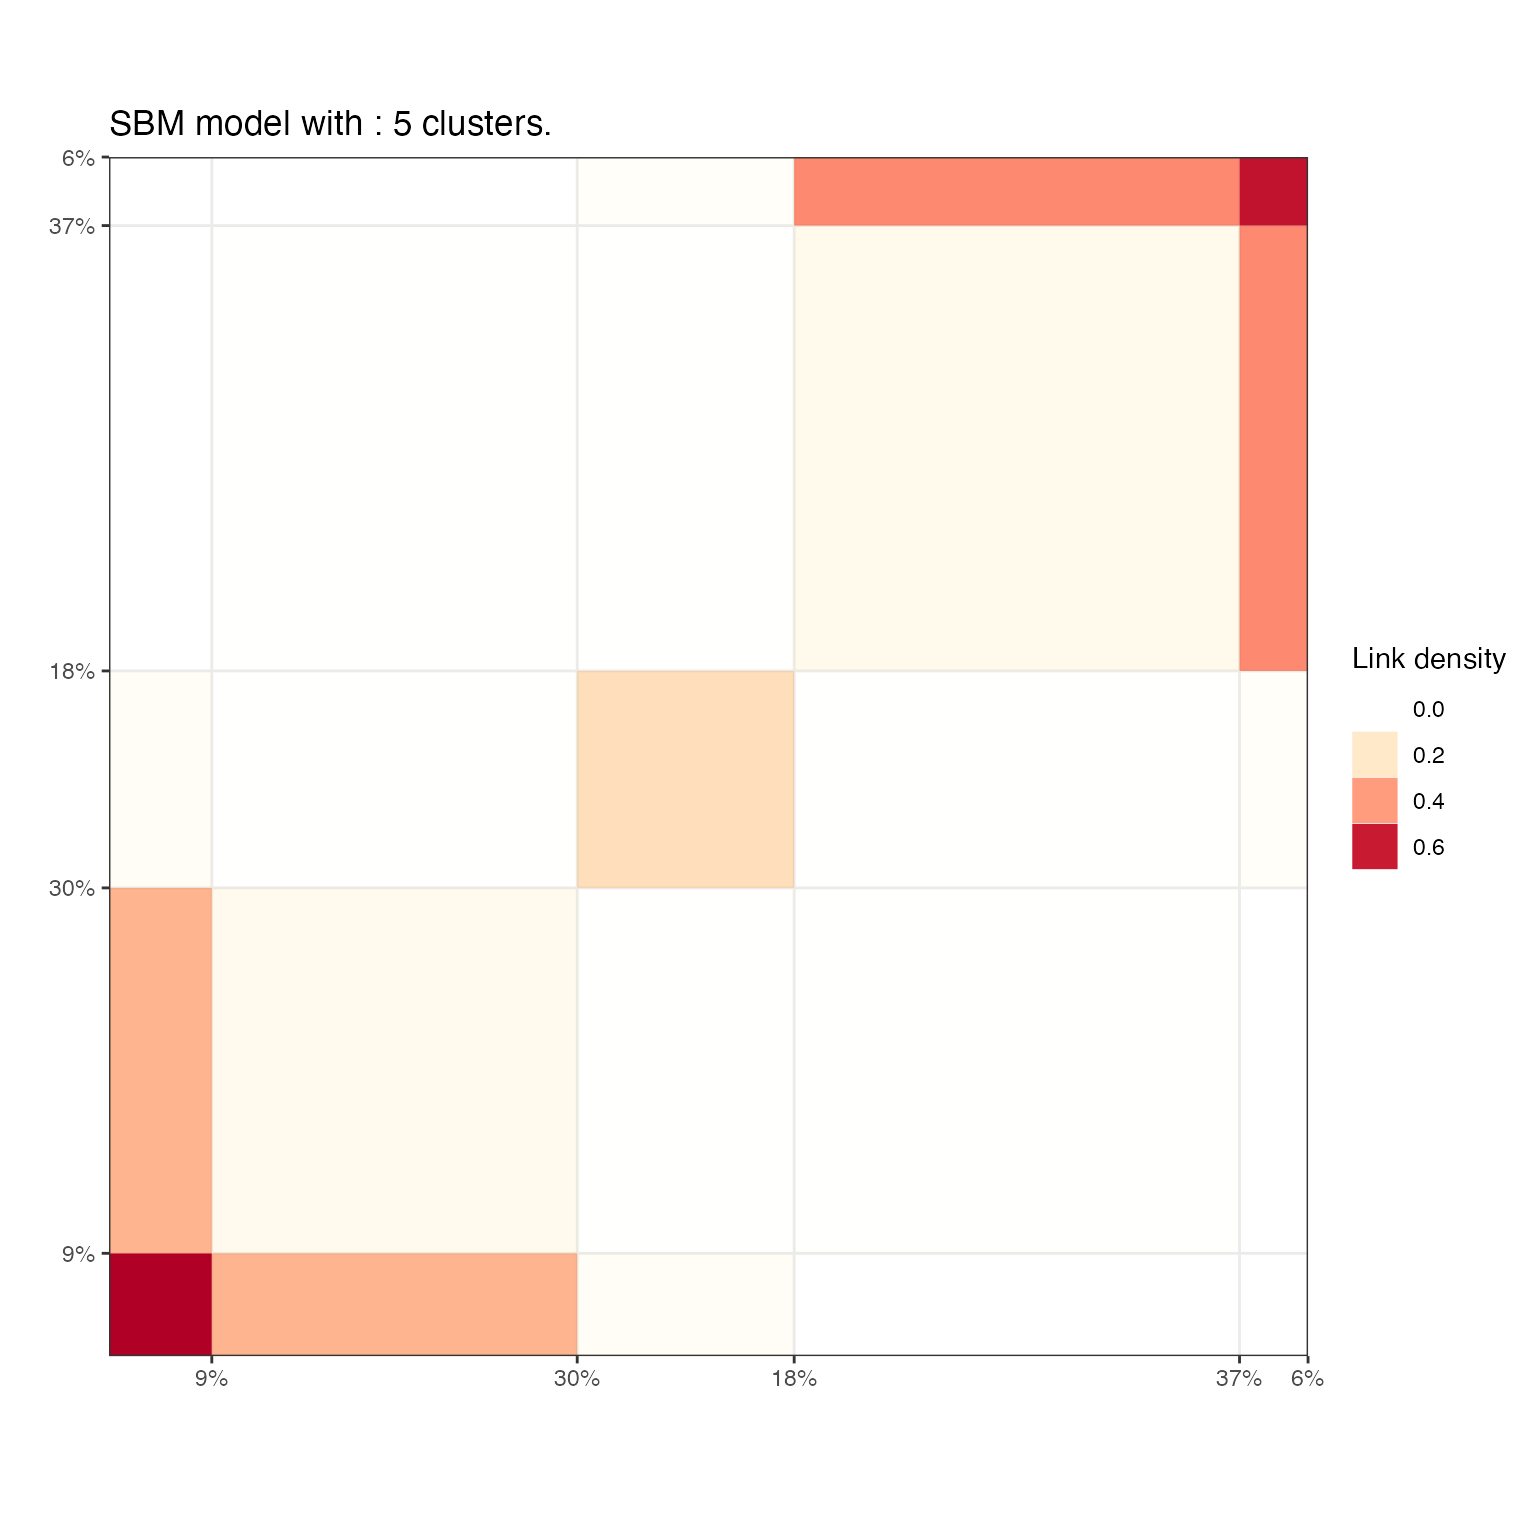
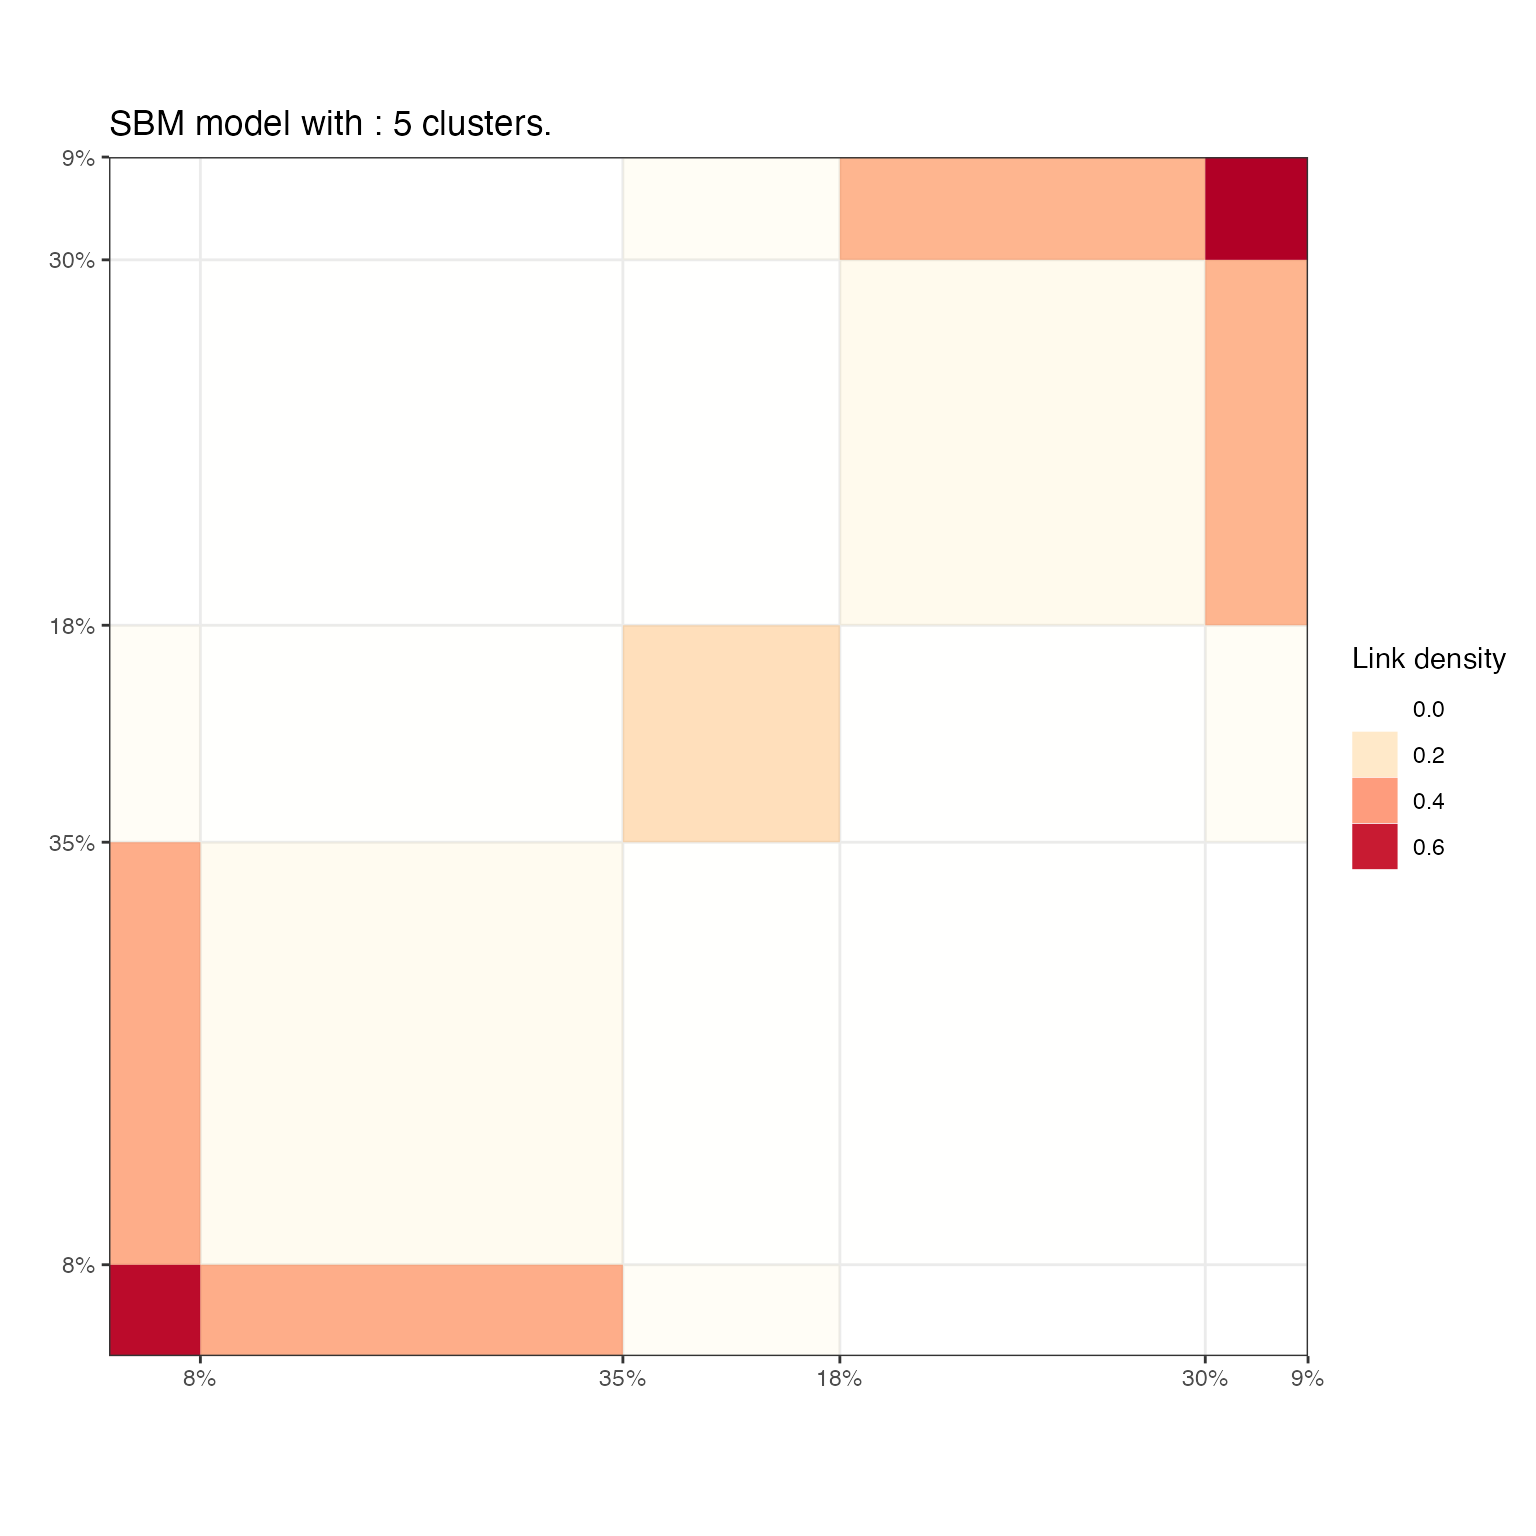
Built site for greed: 0.6.0@4af2175

diff --git a/articles/greed.html b/articles/greed.html
@@ -157,14 +157,11 @@
 <span class="co">#&gt; ── <span style="font-weight: bold;">Fitting a guess DCSBM model</span> ──</span>
 <span class="co">#&gt; </span>
 <span class="co">#&gt; ℹ Initializing a population of 20 solutions.</span>
-<span class="co">#&gt; ℹ Generation 1 : best solution with an ICL of -1357 and 5 clusters.</span>
-<span class="co">#&gt; ℹ Generation 2 : best solution with an ICL of -1348 and 5 clusters.</span>
-<span class="co">#&gt; ℹ Generation 3 : best solution with an ICL of -1346 and 4 clusters.</span>
-<span class="co">#&gt; ℹ Generation 4 : best solution with an ICL of -1346 and 5 clusters.</span>
-<span class="co">#&gt; ℹ Generation 5 : best solution with an ICL of -1346 and 5 clusters.</span>
+<span class="co">#&gt; ℹ Generation 1 : best solution with an ICL of -1346 and 4 clusters.</span>
+<span class="co">#&gt; ℹ Generation 2 : best solution with an ICL of -1346 and 4 clusters.</span>
 <span class="co">#&gt; ── <span style="font-weight: bold;">Final clustering</span> ──</span>
 <span class="co">#&gt; </span>
-<span class="co">#&gt; ── Clustering with a DCSBM model 4 clusters and an ICL of -1342</span></code></pre></div>
+<span class="co">#&gt; ── Clustering with a DCSBM model 3 clusters and an ICL of -1345</span></code></pre></div>
 <p>You may specify the model you want to use and set the priors parameters with the (<code>model</code> argument), the optimization algorithm (<code>alg</code> argument) and the initial number of cluster <code>K</code>. Here <code>Books$X</code> is a square sparse matrix and a graph clustering <code><a href="../reference/DcSbm.html">?`DcSbm-class`</a></code> model will be used by default. By default, the Hybrid genetic algorithm is used.</p>
 <p>The next example illustrates a usage without default values. A binary <code>Sbm</code> prior is used, along with a spectral clustering algorithm for graphs.</p>
 <div class="sourceCode" id="cb2"><pre class="downlit sourceCode r">
@@ -174,7 +171,7 @@
 <span class="co">#&gt; </span>
 <span class="co">#&gt; ── <span style="font-weight: bold;">Final clustering</span> ──</span>
 <span class="co">#&gt; </span>
-<span class="co">#&gt; ── Clustering with a SBM model 5 clusters and an ICL of -1257</span></code></pre></div>
+<span class="co">#&gt; ── Clustering with a SBM model 5 clusters and an ICL of -1252</span></code></pre></div>
 </div>
 <div class="section level3">
 <h3 id="result-analysis">Result analysis<a class="anchor" aria-label="anchor" href="#result-analysis"></a>
@@ -194,26 +191,26 @@
 <tbody>
 <tr class="odd">
 <td align="left">c</td>
-<td align="right">0</td>
+<td align="right">8</td>
+<td align="right">34</td>
+<td align="right">6</td>
 <td align="right">1</td>
-<td align="right">6</td>
-<td align="right">36</td>
-<td align="right">6</td>
+<td align="right">0</td>
 </tr>
 <tr class="even">
 <td align="left">l</td>
-<td align="right">9</td>
-<td align="right">29</td>
+<td align="right">0</td>
+<td align="right">0</td>
 <td align="right">5</td>
-<td align="right">0</td>
-<td align="right">0</td>
+<td align="right">29</td>
+<td align="right">9</td>
 </tr>
 <tr class="odd">
 <td align="left">n</td>
 <td align="right">0</td>
-<td align="right">2</td>
-<td align="right">8</td>
 <td align="right">3</td>
+<td align="right">8</td>
+<td align="right">2</td>
 <td align="right">0</td>
 </tr>
 </tbody>
@@ -223,15 +220,15 @@
 <span class="co">#&gt; [1] 5</span>
 <span class="fu"><a href="https://rdrr.io/r/stats/coef.html" class="external-link">coef</a></span><span class="op">(</span><span class="va">sol</span><span class="op">)</span>
 <span class="co">#&gt; $pi</span>
-<span class="co">#&gt; [1] 0.08571429 0.30476190 0.18095238 0.37142857 0.05714286</span>
+<span class="co">#&gt; [1] 0.07619048 0.35238095 0.18095238 0.30476190 0.08571429</span>
 <span class="co">#&gt; </span>
 <span class="co">#&gt; $thetakl</span>
-<span class="co">#&gt;             [,1]        [,2]        [,3]        [,4]       [,5]</span>
-<span class="co">#&gt; [1,] 0.722222222 0.357638889 0.058479532 0.002849003 0.00000000</span>
-<span class="co">#&gt; [2,] 0.357638889 0.094758065 0.006578947 0.004006410 0.00000000</span>
-<span class="co">#&gt; [3,] 0.058479532 0.006578947 0.251461988 0.016194332 0.04385965</span>
-<span class="co">#&gt; [4,] 0.002849003 0.004006410 0.016194332 0.099865047 0.42735043</span>
-<span class="co">#&gt; [5,] 0.000000000 0.000000000 0.043859649 0.427350427 0.73333333</span></code></pre></div>
+<span class="co">#&gt;            [,1]        [,2]        [,3]        [,4]        [,5]</span>
+<span class="co">#&gt; [1,] 0.71428571 0.371621622 0.052631579 0.000000000 0.000000000</span>
+<span class="co">#&gt; [2,] 0.37162162 0.082582583 0.012802276 0.004222973 0.003003003</span>
+<span class="co">#&gt; [3,] 0.05263158 0.012802276 0.251461988 0.006578947 0.058479532</span>
+<span class="co">#&gt; [4,] 0.00000000 0.004222973 0.006578947 0.094758065 0.357638889</span>
+<span class="co">#&gt; [5,] 0.00000000 0.003003003 0.058479532 0.357638889 0.722222222</span></code></pre></div>
 </div>
 <div class="section level3">
 <h3 id="inspecting-the-hierarchy">Inspecting the hierarchy<a class="anchor" aria-label="anchor" href="#inspecting-the-hierarchy"></a>
@@ -256,21 +253,21 @@
 <tbody>
 <tr class="odd">
 <td align="left">c</td>
+<td align="right">8</td>
+<td align="right">40</td>
 <td align="right">1</td>
-<td align="right">6</td>
-<td align="right">42</td>
 </tr>
 <tr class="even">
 <td align="left">l</td>
-<td align="right">38</td>
-<td align="right">5</td>
 <td align="right">0</td>
+<td align="right">5</td>
+<td align="right">38</td>
 </tr>
 <tr class="odd">
 <td align="left">n</td>
+<td align="right">0</td>
+<td align="right">11</td>
 <td align="right">2</td>
-<td align="right">8</td>
-<td align="right">3</td>
 </tr>
 </tbody>
 </table>

diff --git a/reference/MoR.html b/reference/MoR.html
@@ -157,7 +157,7 @@ a <code>MoR-class</code> object</p>
 <span class="r-out co"><span class="r-pr">#&gt;</span> An object of class "MoRPrior"</span>
 <span class="r-out co"><span class="r-pr">#&gt;</span> Slot "formula":</span>
 <span class="r-out co"><span class="r-pr">#&gt;</span> y ~ x1 + x2</span>
-<span class="r-out co"><span class="r-pr">#&gt;</span> &lt;environment: 0x7fe7609b7da8&gt;</span>
+<span class="r-out co"><span class="r-pr">#&gt;</span> &lt;environment: 0x7fc69f2042f0&gt;</span>
 <span class="r-out co"><span class="r-pr">#&gt;</span> </span>
 <span class="r-out co"><span class="r-pr">#&gt;</span> Slot "tau":</span>
 <span class="r-out co"><span class="r-pr">#&gt;</span> [1] 0.001</span>
@@ -173,7 +173,7 @@ a <code>MoR-class</code> object</p>
 <span class="r-out co"><span class="r-pr">#&gt;</span> An object of class "MoRPrior"</span>
 <span class="r-out co"><span class="r-pr">#&gt;</span> Slot "formula":</span>
 <span class="r-out co"><span class="r-pr">#&gt;</span> y ~ x1 + x2</span>
-<span class="r-out co"><span class="r-pr">#&gt;</span> &lt;environment: 0x7fe7609b7da8&gt;</span>
+<span class="r-out co"><span class="r-pr">#&gt;</span> &lt;environment: 0x7fc69f2042f0&gt;</span>
 <span class="r-out co"><span class="r-pr">#&gt;</span> </span>
 <span class="r-out co"><span class="r-pr">#&gt;</span> Slot "tau":</span>
 <span class="r-out co"><span class="r-pr">#&gt;</span> [1] 0.001</span>
@@ -189,7 +189,7 @@ a <code>MoR-class</code> object</p>
 <span class="r-out co"><span class="r-pr">#&gt;</span> An object of class "MoRPrior"</span>
 <span class="r-out co"><span class="r-pr">#&gt;</span> Slot "formula":</span>
 <span class="r-out co"><span class="r-pr">#&gt;</span> cbind(y1, y2) ~ x1 + x2</span>
-<span class="r-out co"><span class="r-pr">#&gt;</span> &lt;environment: 0x7fe7609b7da8&gt;</span>
+<span class="r-out co"><span class="r-pr">#&gt;</span> &lt;environment: 0x7fc69f2042f0&gt;</span>
 <span class="r-out co"><span class="r-pr">#&gt;</span> </span>
 <span class="r-out co"><span class="r-pr">#&gt;</span> Slot "tau":</span>
 <span class="r-out co"><span class="r-pr">#&gt;</span> [1] 0.001</span>
@@ -205,7 +205,7 @@ a <code>MoR-class</code> object</p>
 <span class="r-out co"><span class="r-pr">#&gt;</span> An object of class "MoR"</span>
 <span class="r-out co"><span class="r-pr">#&gt;</span> Slot "formula":</span>
 <span class="r-out co"><span class="r-pr">#&gt;</span> y ~ x1 + x2</span>
-<span class="r-out co"><span class="r-pr">#&gt;</span> &lt;environment: 0x7fe7609b7da8&gt;</span>
+<span class="r-out co"><span class="r-pr">#&gt;</span> &lt;environment: 0x7fc69f2042f0&gt;</span>
 <span class="r-out co"><span class="r-pr">#&gt;</span> </span>
 <span class="r-out co"><span class="r-pr">#&gt;</span> Slot "tau":</span>
 <span class="r-out co"><span class="r-pr">#&gt;</span> [1] 0.1</span>
@@ -224,7 +224,7 @@ a <code>MoR-class</code> object</p>
 <span class="r-out co"><span class="r-pr">#&gt;</span> An object of class "MoR"</span>
 <span class="r-out co"><span class="r-pr">#&gt;</span> Slot "formula":</span>
 <span class="r-out co"><span class="r-pr">#&gt;</span> y ~ x1 + x2</span>
-<span class="r-out co"><span class="r-pr">#&gt;</span> &lt;environment: 0x7fe7609b7da8&gt;</span>
+<span class="r-out co"><span class="r-pr">#&gt;</span> &lt;environment: 0x7fc69f2042f0&gt;</span>
 <span class="r-out co"><span class="r-pr">#&gt;</span> </span>
 <span class="r-out co"><span class="r-pr">#&gt;</span> Slot "tau":</span>
 <span class="r-out co"><span class="r-pr">#&gt;</span> [1] 0.1</span>
@@ -243,7 +243,7 @@ a <code>MoR-class</code> object</p>
 <span class="r-out co"><span class="r-pr">#&gt;</span> An object of class "MoR"</span>
 <span class="r-out co"><span class="r-pr">#&gt;</span> Slot "formula":</span>
 <span class="r-out co"><span class="r-pr">#&gt;</span> cbind(y1, y2) ~ x1 + x2</span>
-<span class="r-out co"><span class="r-pr">#&gt;</span> &lt;environment: 0x7fe7609b7da8&gt;</span>
+<span class="r-out co"><span class="r-pr">#&gt;</span> &lt;environment: 0x7fc69f2042f0&gt;</span>
 <span class="r-out co"><span class="r-pr">#&gt;</span> </span>
 <span class="r-out co"><span class="r-pr">#&gt;</span> Slot "tau":</span>
 <span class="r-out co"><span class="r-pr">#&gt;</span> [1] 0.1</span>

diff --git a/reference/greed.html b/reference/greed.html
@@ -157,16 +157,16 @@ provides sampling functions for all the implemented DLVMs.</p>
 <span class="r-msg co"><span class="r-pr">#&gt;</span> ── <span style="font-weight: bold;">Fitting a guess SBM model</span> ──</span>
 <span class="r-msg co"><span class="r-pr">#&gt;</span> </span>
 <span class="r-msg co"><span class="r-pr">#&gt;</span> ℹ Initializing a population of 20 solutions.</span>
-<span class="r-msg co"><span class="r-pr">#&gt;</span> ℹ Generation 1 : best solution with an ICL of -593 and 2 clusters.</span>
-<span class="r-msg co"><span class="r-pr">#&gt;</span> ℹ Generation 2 : best solution with an ICL of -593 and 2 clusters.</span>
+<span class="r-msg co"><span class="r-pr">#&gt;</span> ℹ Generation 1 : best solution with an ICL of -557 and 3 clusters.</span>
+<span class="r-msg co"><span class="r-pr">#&gt;</span> ℹ Generation 2 : best solution with an ICL of -557 and 3 clusters.</span>
 <span class="r-msg co"><span class="r-pr">#&gt;</span> ── <span style="font-weight: bold;">Final clustering</span> ──</span>
 <span class="r-msg co"><span class="r-pr">#&gt;</span> </span>
-<span class="r-msg co"><span class="r-pr">#&gt;</span> ── Clustering with a SBM model 2 clusters and an ICL of -593 </span>
+<span class="r-msg co"><span class="r-pr">#&gt;</span> ── Clustering with a SBM model 2 clusters and an ICL of -549 </span>
 <span class="r-in"><span class="fu"><a href="https://rdrr.io/r/base/table.html" class="external-link">table</a></span><span class="op">(</span><span class="va">sbm</span><span class="op">$</span><span class="va">cl</span>,<span class="fu"><a href="clustering.html">clustering</a></span><span class="op">(</span><span class="va">sol</span><span class="op">)</span><span class="op">)</span></span>
 <span class="r-out co"><span class="r-pr">#&gt;</span>    </span>
 <span class="r-out co"><span class="r-pr">#&gt;</span>      1  2</span>
-<span class="r-out co"><span class="r-pr">#&gt;</span>   1 20  0</span>
-<span class="r-out co"><span class="r-pr">#&gt;</span>   2  0 30</span>
+<span class="r-out co"><span class="r-pr">#&gt;</span>   1 24  1</span>
+<span class="r-out co"><span class="r-pr">#&gt;</span>   2  0 25</span>
 </code></pre></div>
     </div>
   </div>

diff --git a/reference/MI.html b/reference/MI.html
@@ -113,7 +113,7 @@
     <div class="sourceCode"><pre class="sourceCode r"><code><span class="r-in"><span class="va">cl1</span> <span class="op">&lt;-</span> <span class="fu"><a href="https://rdrr.io/r/base/sample.html" class="external-link">sample</a></span><span class="op">(</span><span class="fl">2</span>, <span class="fl">500</span>, replace <span class="op">=</span> <span class="cn">TRUE</span><span class="op">)</span></span>
 <span class="r-in"><span class="va">cl2</span> <span class="op">&lt;-</span> <span class="fu"><a href="https://rdrr.io/r/base/sample.html" class="external-link">sample</a></span><span class="op">(</span><span class="fl">2</span>, <span class="fl">500</span>, replace <span class="op">=</span> <span class="cn">TRUE</span><span class="op">)</span></span>
 <span class="r-in"><span class="fu">MI</span><span class="op">(</span><span class="va">cl1</span>, <span class="va">cl2</span><span class="op">)</span></span>
-<span class="r-out co"><span class="r-pr">#&gt;</span> [1] 0.0002945286</span>
+<span class="r-out co"><span class="r-pr">#&gt;</span> [1] 9.337371e-06</span>
 </code></pre></div>
     </div>
   </div>

diff --git a/reference/NMI.html b/reference/NMI.html
@@ -113,7 +113,7 @@
     <div class="sourceCode"><pre class="sourceCode r"><code><span class="r-in"><span class="va">cl1</span> <span class="op">&lt;-</span> <span class="fu"><a href="https://rdrr.io/r/base/sample.html" class="external-link">sample</a></span><span class="op">(</span><span class="fl">2</span>, <span class="fl">500</span>, replace <span class="op">=</span> <span class="cn">TRUE</span><span class="op">)</span></span>
 <span class="r-in"><span class="va">cl2</span> <span class="op">&lt;-</span> <span class="fu"><a href="https://rdrr.io/r/base/sample.html" class="external-link">sample</a></span><span class="op">(</span><span class="fl">2</span>, <span class="fl">500</span>, replace <span class="op">=</span> <span class="cn">TRUE</span><span class="op">)</span></span>
 <span class="r-in"><span class="fu">NMI</span><span class="op">(</span><span class="va">cl1</span>, <span class="va">cl2</span><span class="op">)</span></span>
-<span class="r-out co"><span class="r-pr">#&gt;</span> [1] 0.001998452</span>
+<span class="r-out co"><span class="r-pr">#&gt;</span> [1] 0.0006136067</span>
 </code></pre></div>
     </div>
   </div>

diff --git a/reference/H.html b/reference/H.html
@@ -110,7 +110,7 @@
     <h2>Examples</h2>
     <div class="sourceCode"><pre class="sourceCode r"><code><span class="r-in"><span class="va">cl</span> <span class="op">&lt;-</span> <span class="fu"><a href="https://rdrr.io/r/base/sample.html" class="external-link">sample</a></span><span class="op">(</span><span class="fl">2</span>, <span class="fl">500</span>, replace <span class="op">=</span> <span class="cn">TRUE</span><span class="op">)</span></span>
 <span class="r-in"><span class="fu">H</span><span class="op">(</span><span class="va">cl</span><span class="op">)</span></span>
-<span class="r-out co"><span class="r-pr">#&gt;</span> [1] 0.6930752</span>
+<span class="r-out co"><span class="r-pr">#&gt;</span> [1] 0.6889092</span>
 </code></pre></div>
     </div>
   </div>
